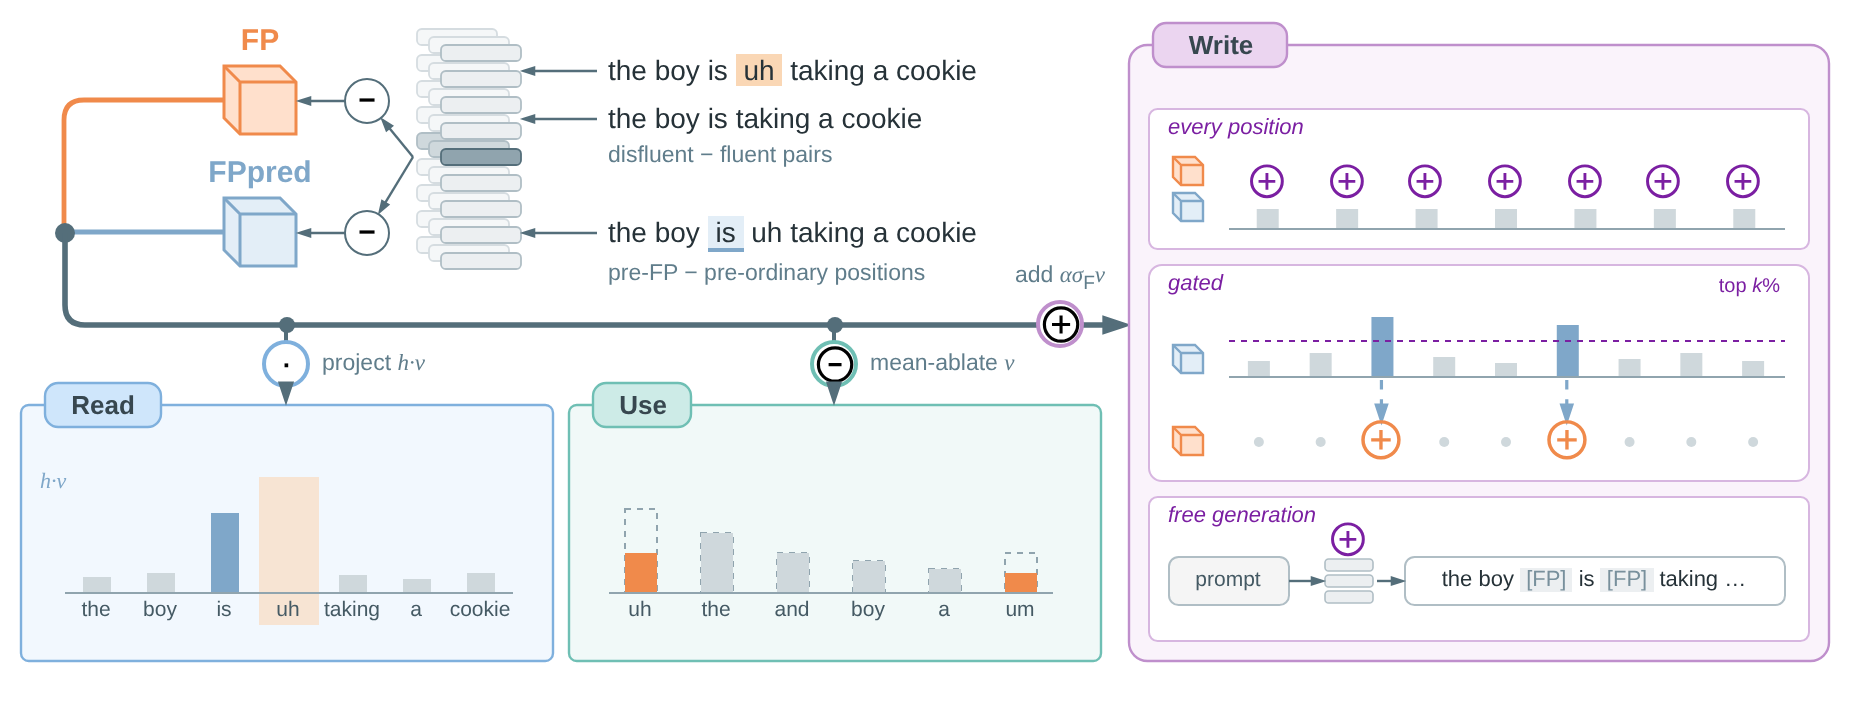
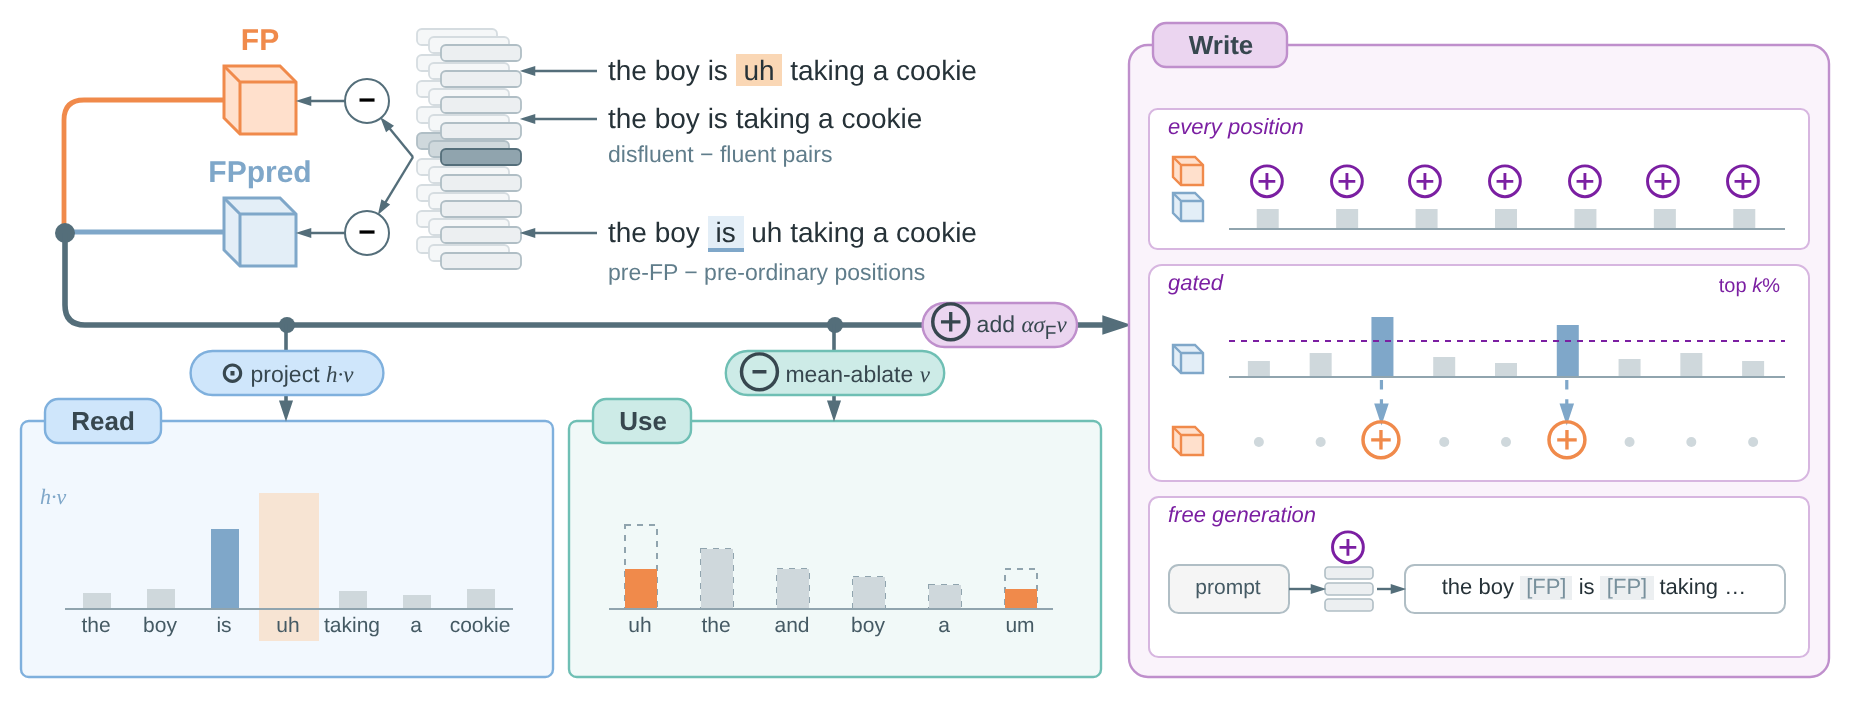
Overview figure: operation pills on the stage connectors
Claude-Session: https://claude.ai/code/session_01Nr8f45fQSeuNoeBXRTJGZT

diff --git a/figures/gen_overview.py b/figures/gen_overview.py
@@ -71,7 +71,7 @@ def tab(label, x, y, w):
 
 
 
-W, H = 920, 334
+W, H = 920, 342
 DARK = "#37474F"
 NOTE = "#607D8B"
 GREY_BAR = "#CFD8DC"
@@ -140,7 +140,7 @@ v("", 25, PRY - 5, 10, 10, f"ellipse;html=1;fillColor={LINE};strokeColor=none;")
 e(None, None, f"endArrow=blockThin;endFill=1;strokeColor={LINE};strokeWidth=2.8;", sp=(30, PRY), pts=[(30, RL)], tp=(WX, RL))
 
 # ======================= stages =======================
-PY, PH = 198, 128
+PY, PH = 206, 128
 WY, WH = 18, PY + PH - 18
 PANELS = {"Read": (8, 266, PY, PH), "Use": (282, 266, PY, PH), "Write": (WX, 912 - WX, WY, WH)}
 STYLE = {"Read": ("#F2F8FE", "#CFE6FB", "#7FB0DD", "·", f"project {serif('h·v')}"),
@@ -153,20 +153,22 @@ for name, (x, w, y, h) in PANELS.items():
     tw = len(name) * 9 + 22
     v(f"<b>{name}</b>", x + 12, y - 11, tw, 22,
       f"rounded=1;arcSize=30;html=1;fillColor={head};strokeColor={stroke};strokeWidth=1.2;fontSize=13;fontColor={DARK};" + FONT)
-    # operation symbol sits on the arrow that brings the direction into the stage
-    OPS = f"ellipse;html=1;fillColor=#FFFFFF;strokeColor={stroke};strokeWidth=2;fontSize=13;fontStyle=1;" + FONT
+    # operation pill sits on the connector that brings the direction into the stage
+    sym = {"Read": "⊙", "Use": "⊖", "Write": "⊕"}[name]
+    plain = {"Read": "project h·v", "Use": "mean-ablate v", "Write": "add ασFv"}[name]
+    pw, ph = 26 + len(plain) * 6.4, 22
+    pill = (f"rounded=1;arcSize=50;html=1;fillColor={head};strokeColor={stroke};strokeWidth=1.2;"
+            f"fontSize=11.5;fontColor={DARK};spacingLeft=2;spacingRight=2;" + FONT)
+    label = f"<b style='font-size:14px'>{sym}</b>&nbsp;{formula}"
     if name != "Write":
         cx_ = x + w / 2
         oy = (RL + y) / 2
-        e(None, None, f"endArrow=none;strokeColor={LINE};strokeWidth=2;", sp=(cx_, RL), tp=(cx_, oy - 11))
-        v(op, cx_ - 11, oy - 11, 22, 22, OPS)
-        e(None, None, f"endArrow=blockThin;endFill=1;strokeColor={LINE};strokeWidth=2;", sp=(cx_, oy + 11), tp=(cx_, y))
-        text(f"<font color='{NOTE}'>{formula}</font>", cx_ + 16, oy - 9, 140, 18, 11.5, DARK)
         v("", cx_ - 4, RL - 4, 8, 8, f"ellipse;html=1;fillColor={LINE};strokeColor=none;")
+        e(None, None, f"endArrow=none;strokeColor={LINE};strokeWidth=1.8;", sp=(cx_, RL), tp=(cx_, oy))
+        e(None, None, f"endArrow=blockThin;endFill=1;endSize=5;strokeColor={LINE};strokeWidth=1.8;", sp=(cx_, oy), tp=(cx_, y))
+        v(label, cx_ - pw / 2, oy - ph / 2, pw, ph, pill)
     else:
-        ox = WX - 34
-        v(op, ox - 11, RL - 11, 22, 22, OPS)
-        text(f"<font color='{NOTE}'>{formula}</font>", ox - 50, RL - 32, 100, 18, 11.5, DARK, "center")
+        v(label, WX - pw - 26, RL - ph / 2, pw, ph, pill)
 
 # ---- Read: h·v peaks just before the FP
 x, w, y, h = PANELS["Read"]

diff --git a/figures/overview_prompt.md b/figures/overview_prompt.md
@@ -210,3 +210,7 @@ Write 栏挂钩前放门控菱形 `FPpred high?`，接收来自 ② 的 `externa
 
 - 阶段面板改为“大框 + 左上角小标题框（Read / Use / Write）”，去掉整条表头。
 - 操作符号 · ⊖ ⊕ 放到方向线进入各阶段的箭头上，旁注公式（project h·v / mean-ablate v / add ασ_F v），表示对表征的处理方式。
+
+## 25. v21
+
+- 操作符号改为连接线上的胶囊标签（⊙ project h·v / ⊖ mean-ablate v / ⊕ add ασ_F v），用各阶段的表头色；Read 符号由 · 改为 ⊙，与 ⊖ ⊕ 统一。
